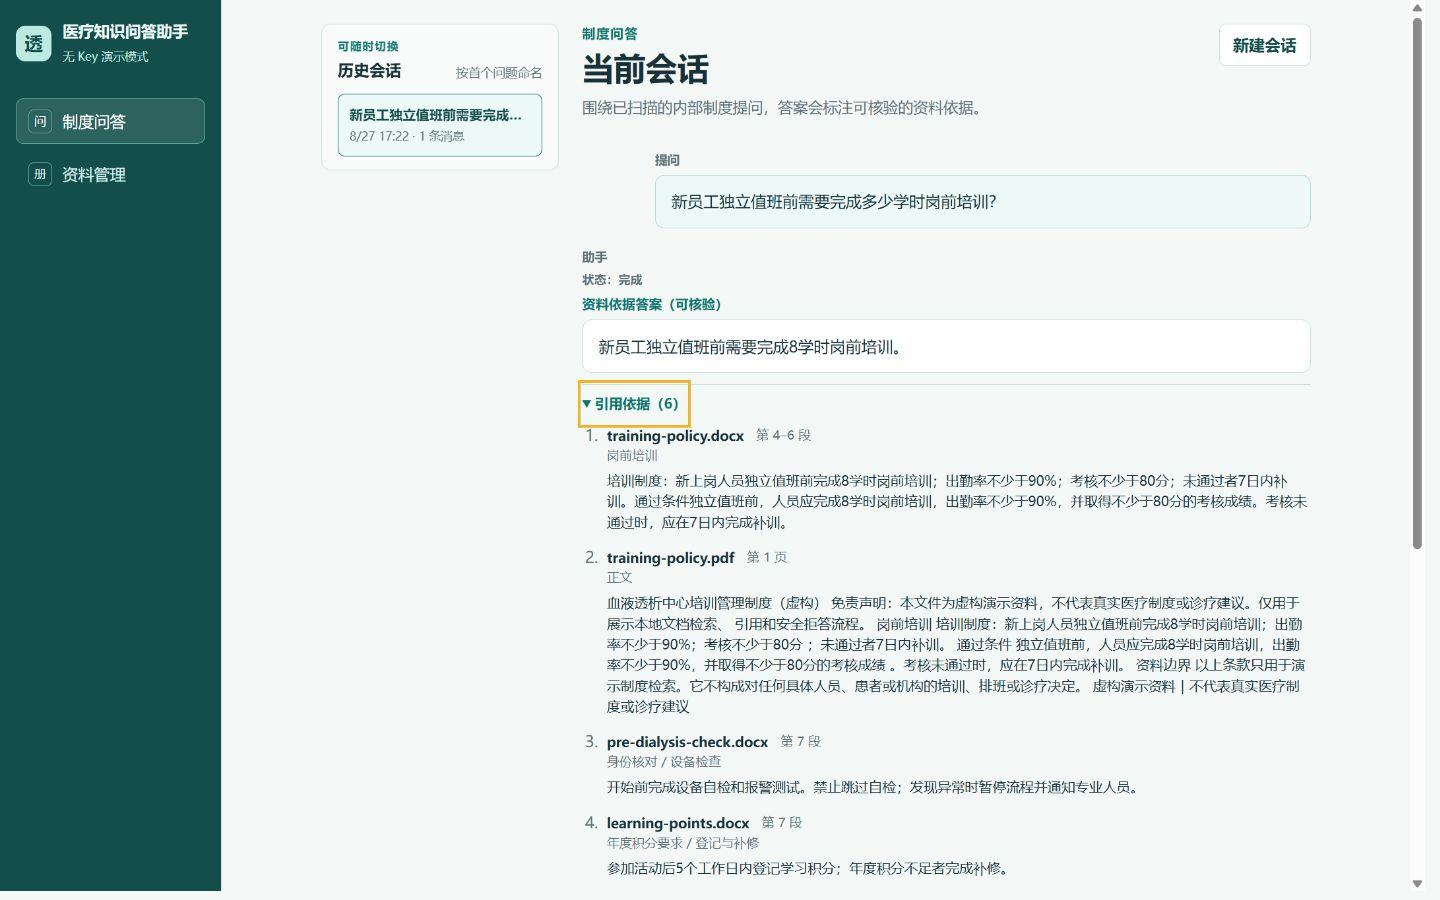
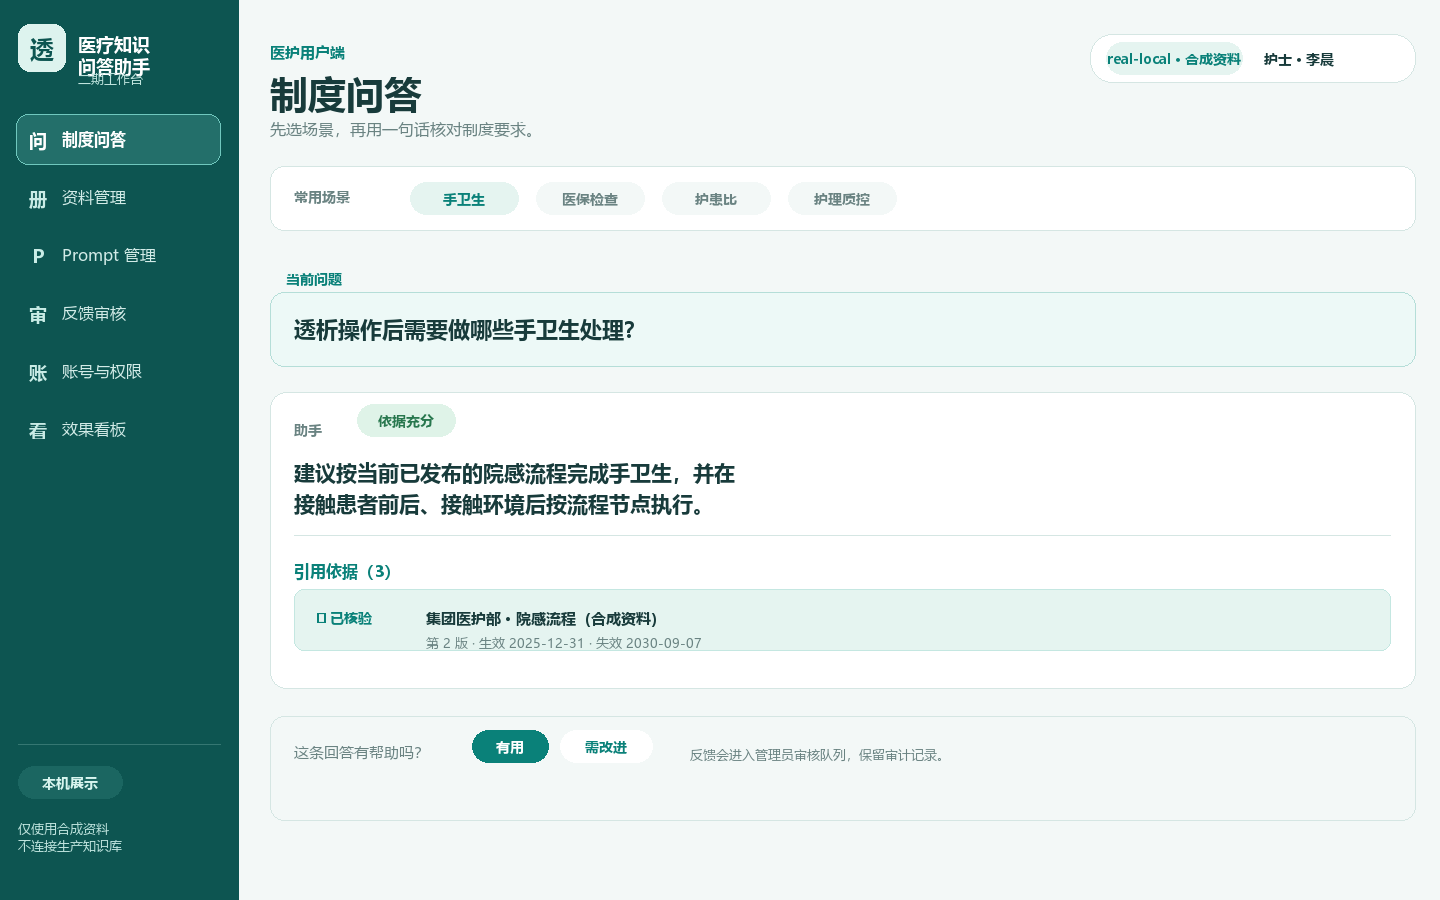
docs: refresh phase2 interface previews

diff --git a/backend/tests/demo/test_demo_assets.py b/backend/tests/demo/test_demo_assets.py
@@ -42,13 +42,15 @@ V1_DEMO_DOCUMENTS = tuple(
 DEMO_QUESTIONS = PROJECT_ROOT / "demo" / "questions.json"
 VISUAL_ASSET_DIR = PROJECT_ROOT / "docs" / "assets"
 VISUAL_SCENARIOS = {
-    "chat-answer.png": "fact-training-hours",
-    "chat-refusal.png": "no-answer-reimbursement",
-    "chat-history.png": "followup-history-restore",
-    "documents.png": "document-list",
-    "runtime-mode.png": "runtime-mode-demo",
-    "question-flow.gif": "question-flow",
-    "feedback-review.png": "synthetic-feedback-data-flywheel",
+    "chat-answer.png": "phase2-user-answer-evidence",
+    "chat-refusal.png": "phase2-insufficient-evidence-next-action",
+    "chat-history.png": "phase2-session-history-audit",
+    "documents.png": "phase2-document-lifecycle-metadata",
+    "prompt-management.png": "phase2-prompt-management-dialog",
+    "runtime-mode.png": "phase2-account-role-directory",
+    "evaluation-dashboard.png": "phase2-evaluation-governance-dashboard",
+    "question-flow.gif": "phase2-question-workflow",
+    "feedback-review.png": "phase2-feedback-review-flywheel",
 }
 
 
@@ -620,3 +622,4 @@ def _remove_reparse_path(path: Path) -> None:
         )
         return
     path.unlink(missing_ok=True)
+

diff --git a/README.md b/README.md
@@ -51,29 +51,34 @@
 
 ## 界面预览
 
-下面的素材均来自本机 Demo 的虚构资料和固定演示流程；原图尺寸、哈希和审核状态见[媒体清单](docs/assets/manifest.json)。它们用于作品集演示，不代表生产就绪、真实医疗制度或运行时多 Agent。
+下面是二期公开展示版界面：采用二期工作台的信息架构和已交付的治理边界，展示数据全部为合成资料；原图尺寸、哈希和审核状态见[媒体清单](docs/assets/manifest.json)。公开仓库的无 Key 可运行 Demo 仍保留 v1 基线，图片用于展示二期产品体验，不代表生产就绪、真实医疗制度或运行时多 Agent。
 
-![有引用的正式答案](docs/assets/chat-answer.png)
+![二期医护问答工作台：角色、场景入口和证据核验](docs/assets/chat-answer.png)
 
-![证据不足拒答](docs/assets/chat-refusal.png)
+![资料不足时的明确回复和后续动作](docs/assets/chat-refusal.png)
 
-![历史会话恢复](docs/assets/chat-history.png)
+![历史会话、追问和审计保留](docs/assets/chat-history.png)
 
-![资料管理](docs/assets/documents.png)
+![资料生命周期、版本和业务属性弹窗](docs/assets/documents.png)
 
-![无 Key 演示模式](docs/assets/runtime-mode.png)
+![账号与权限目录](docs/assets/runtime-mode.png)
 
-![问题流转短 GIF](docs/assets/question-flow.gif)
+![问题流转：场景理解、检索、证据核验和安全拒答](docs/assets/question-flow.gif)
 
 ![反馈审核与数据飞轮](docs/assets/feedback-review.png)
 
+![Prompt 管理、中文状态和不透明编辑弹窗](docs/assets/prompt-management.png)
+
+![效果与治理看板](docs/assets/evaluation-dashboard.png)
+
 运行 Demo 后可以看到：
 
-- 左侧“制度问答”和“资料管理”导航，以及持续显示的“无 Key 演示模式”标识；
-- 问答页的检索、重排、生成、引用核验状态；
-- 正式答案、可展开引用、证据不足拒答、历史会话恢复和反馈按钮；
-- 资料管理页返回安全的文件名、版本状态和失败原因，不返回本机路径或原文数据库。
-- 管理员反馈审核页的“数据飞轮”：脱敏投影、分级去重、人工 Rubric、证据 Trace，以及追加到 `golden-v2` 的 dev/holdout 候选集。截图中的案例和证据均为合成数据。
+- 医护用户端的场景快捷入口、回答状态、引用版本和反馈入口；
+- 资料生命周期的草稿、审核、发布、版本和属性弹窗；
+- Prompt 目录的中文状态、查看详情、编辑草稿和候选边界；
+- 反馈审核页的脱敏投影、Rubric、Bad Case 审计保留和 `golden-v2` 候选流转；
+- 账号目录的四类角色、批量导入入口、状态和会话查看；
+- 效果看板的回答、拒答、引用追溯和数据可用性聚合。截图中的案例和证据均为合成数据。
 
 ### 二期交付与问题复盘
 

diff --git a/docs/phase2-delivery.md b/docs/phase2-delivery.md
@@ -18,25 +18,29 @@
 
 ## 截图与演示入口
 
-以下图片全部来自公开 Demo 的合成资料和固定流程，截图本身不含真实制度、患者信息或 Provider 原始响应。
+以下图片是二期工作台的公开展示版界面，使用二期信息架构和合成资料；截图本身不含真实制度、患者信息或 Provider 原始响应。公开无 Key Demo 仍以 v1 基线运行，二期界面用于展示产品闭环和治理设计。
 
 ### 问答与证据
 
-![带引用的正式答案](assets/chat-answer.png)
+![二期医护问答工作台：角色、场景入口和证据核验](assets/chat-answer.png)
 
-![证据不足时的拒答](assets/chat-refusal.png)
+![资料不足时的明确回复和后续动作](assets/chat-refusal.png)
 
-![连续追问与历史会话](assets/chat-history.png)
+![历史会话、追问和审计保留](assets/chat-history.png)
 
-![问答流程](assets/question-flow.gif)
+![问题流转：场景理解、检索、证据核验和安全拒答](assets/question-flow.gif)
 
 ### 管理与反馈
 
-![资料管理](assets/documents.png)
+![资料生命周期、版本和业务属性弹窗](assets/documents.png)
 
 ![反馈审核与数据飞轮](assets/feedback-review.png)
 
-![无 Key Demo 模式](assets/runtime-mode.png)
+![账号与权限目录](assets/runtime-mode.png)
+
+![Prompt 管理、中文状态和不透明编辑弹窗](assets/prompt-management.png)
+
+![效果与治理看板](assets/evaluation-dashboard.png)
 
 推荐现场顺序：先运行[Demo 指南](demo-guide.md)，再看[系统架构](architecture.md)，最后阅读[评测与回滚](evaluation.md)和本页的问题处理记录。
 

diff --git a/CHANGELOG.md b/CHANGELOG.md
@@ -6,6 +6,8 @@
 
 ### Changed
 
+- 重构 README 与二期交付说明中的界面预览：替换一期截图为二期医护问答、资料生命周期、Prompt 管理、反馈审核、账号权限和效果看板的合成展示界面，并更新媒体清单哈希；公开无 Key Demo 仍明确保留 v1 基线。
+
 - 新增二期交付说明：资料与 Prompt 版本治理、角色/会话隔离、反馈数据飞轮、场景感知检索、问题处理思路、合成截图和三期承接边界；明确真实资料、逐题评测和外部发布不进入公开仓库。
 
 - 重新规划公开展示为“业务问题 → 证据型 RAG → 质量评测 → Agent 治理 → 安全发布”五段式，新增招聘方速读卡、能力证据地图和当前 80 题聚合看板。
